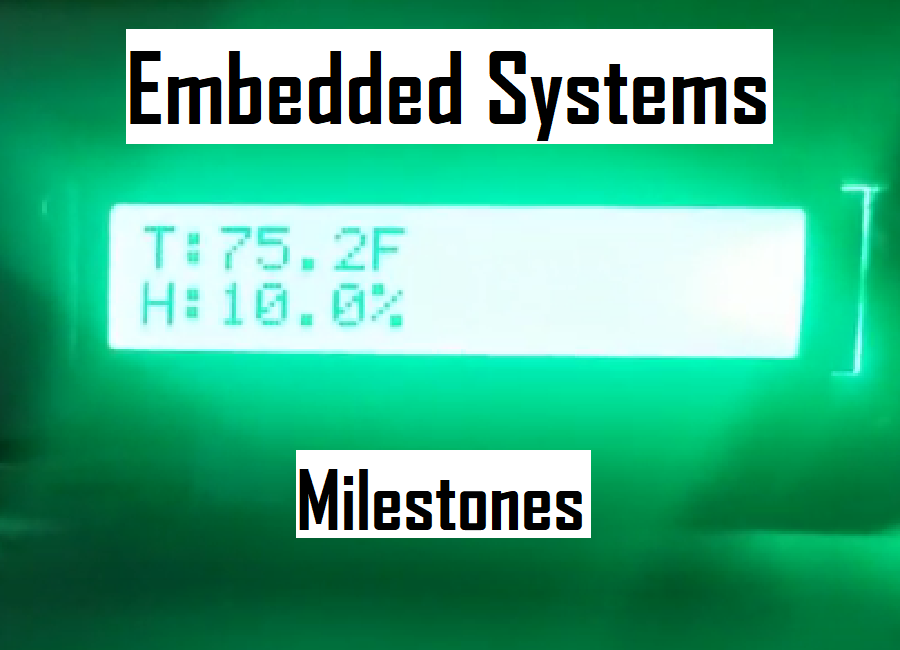
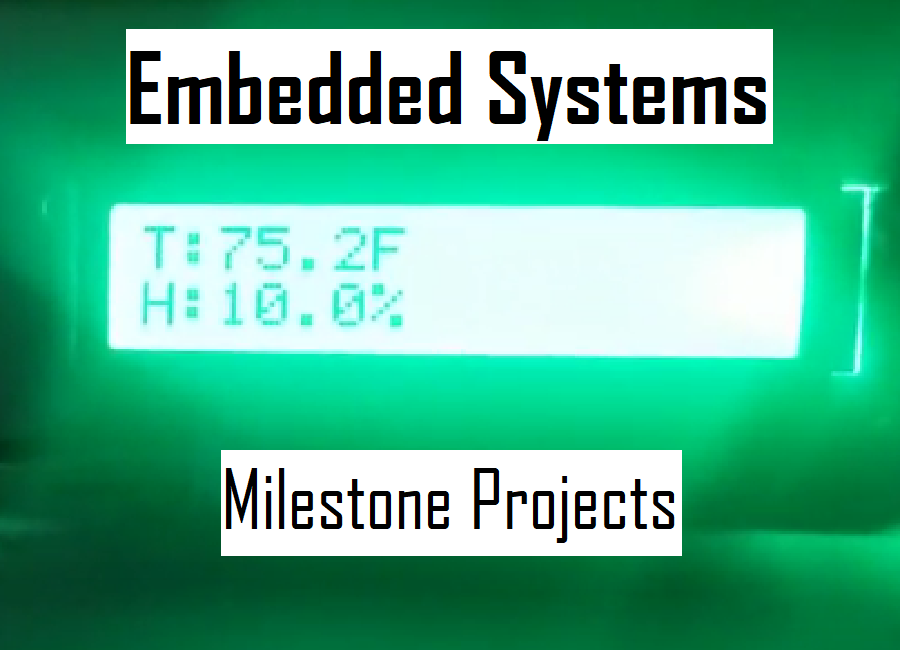
portfolio modal 4 pic

Changed region(s): [[0.2178, 0.6769, 0.7778, 0.8615]]

diff --git a/index.html b/index.html
@@ -424,6 +424,7 @@
                                 <div class="col-lg-8">
                                     <!-- Portfolio Modal - Title-->
                                     <h2 class="portfolio-modal-title text-secondary text-uppercase mb-0">Embedded Systems:</h2>
+                                    <br />
                                     <h3 class="portfolio-modal-title text-secondary mb-0">Milestone Projects</h3>
                                     <!-- Icon Divider-->
                                     <div class="divider-custom">
@@ -432,7 +433,7 @@
                                         <div class="divider-custom-line"></div>
                                     </div>
                                     <!-- Portfolio Modal - Image-->
-                                    <img class="img-fluid rounded mb-5" src="assets/img/portfolio/floweringspaces.png" alt="..." />
+                                    <img class="img-fluid rounded mb-5" src="assets/img/portfolio/cs350_milestones.png" alt="..." />
                                     <!-- Portfolio Modal - Text-->
                                     <h6 class="mb-4">CS 350 Emerging Systems, Architectures, and Technologies </h6>
                                     <p class="mb-4">(embedded systems w/ raspberry pi4 and grovepi+) </p>
